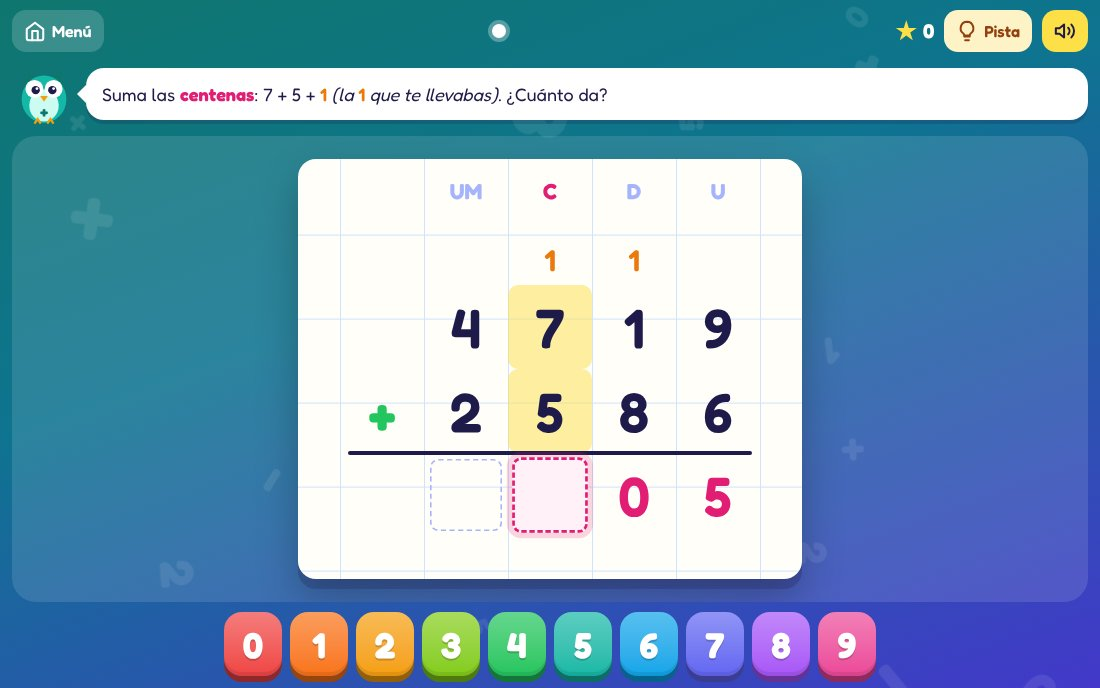
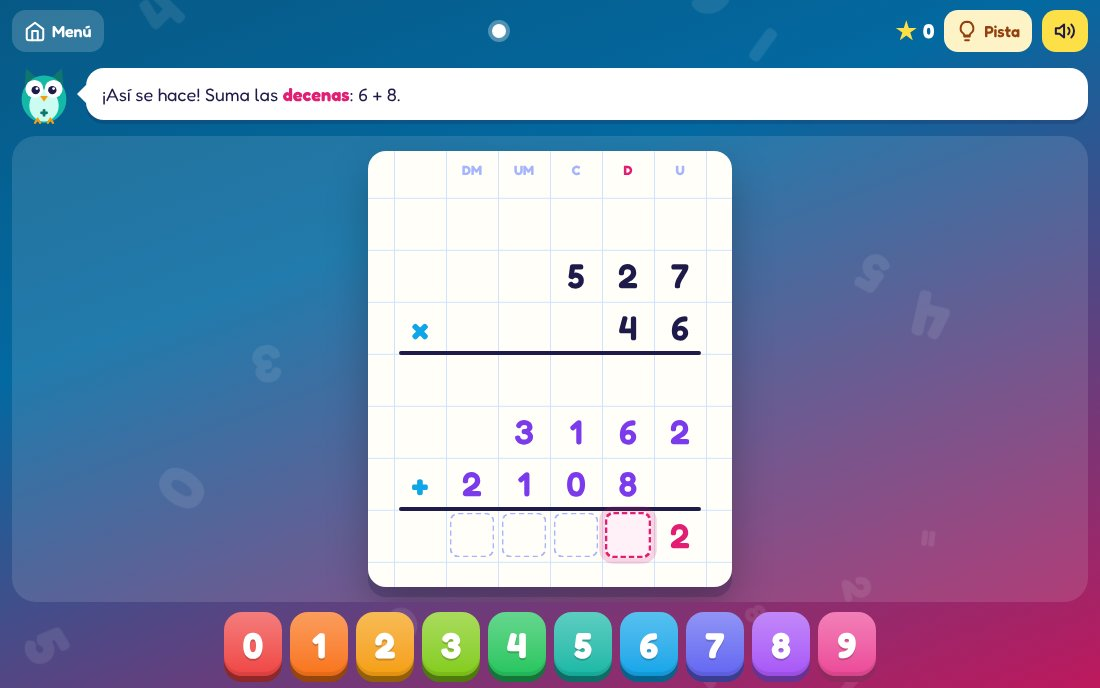
Cuentas Mágicas: multiplicaciones y cifras alineadas con la cuadrícula (#44)
* Cuentas Mágicas: multiplicaciones por 1 y 2 cifras

Claude-Session: https://claude.ai/code/session_01JmubsGKrFVpedsRh6pD2No

* Alinear todas las cifras con la cuadrícula en sumas, restas, multiplicaciones y divisiones

Claude-Session: https://claude.ai/code/session_01JmubsGKrFVpedsRh6pD2No

---------

diff --git a/matematicas/operaciones.html b/matematicas/operaciones.html
@@ -4,11 +4,11 @@
 <meta charset="UTF-8">
 <meta name="viewport" content="width=device-width, initial-scale=1.0">
 <title>Cuentas Mágicas</title>
-<meta name="description" content="Sumas y restas con y sin llevadas, paso a paso, arrastrando los números a su sitio.">
+<meta name="description" content="Sumas, restas y multiplicaciones con y sin llevadas, paso a paso, arrastrando los números a su sitio.">
 <meta property="og:type" content="website">
 <meta property="og:site_name" content="Juegos educativos">
 <meta property="og:title" content="Cuentas Mágicas">
-<meta property="og:description" content="Sumas y restas con y sin llevadas, paso a paso, arrastrando los números a su sitio.">
+<meta property="og:description" content="Sumas, restas y multiplicaciones con y sin llevadas, paso a paso, arrastrando los números a su sitio.">
 <meta property="og:url" content="https://maestroseb.github.io/juegos-educativos/matematicas/operaciones.html">
 <meta property="og:image" content="https://maestroseb.github.io/juegos-educativos/img/capturas/operaciones.jpg">
 <meta property="og:image:width" content="1100">
@@ -113,11 +113,13 @@
   }
   .cell { position: absolute; width: var(--s); height: var(--s); display: grid; place-items: center; font-weight: 600; border-radius: 10px; transition: background .2s; }
   .cell.sm { width: calc(var(--s) * .52); height: calc(var(--s) * .52); font-size: calc(var(--s) * .36); border-radius: 8px; }
+  .cell.sm.corner { width: calc(var(--s) * .4); height: calc(var(--s) * .4); font-size: calc(var(--s) * .3); }
   .cell.given { color: var(--ink); }
   .cell.hl { background: rgba(253, 224, 71, .5); }
   .cell.k-d { color: var(--res); }
   .cell.k-c { color: var(--carry); }
   .cell.mark { color: var(--mark); }
+  .cell.pp { color: #7c3aed; }
   .cell.pending { border: 2px dashed #a5b4fc; transform: scale(.86); }
   .cell.active { border: 3px dashed var(--res); background: #fff1f7; animation: glow 1.2s ease-in-out infinite; transform: scale(.9); }
   .cell.sm.active { border-width: 2px; border-color: var(--carry); background: #fff7ed; transform: none; }
@@ -291,6 +293,15 @@ const genSub = (la, lb, borrow, zeros) => () => {
   }
 };
 
+const mulCarries = (a, b) => String(b).split('').some(d => String(a).split('').some(x => x * d >= 10));
+const genMul = (la, lb, carry) => () => {
+  for (;;) {
+    const a = num(la), b = num(lb);
+    if (String(b).includes('0') || String(b).includes('1') && lb === 1) continue;
+    if (mulCarries(a, b) === carry) return [a, b];
+  }
+};
+
 const OPS = {
   suma: {
     sign: '+', name: 'Sumas', c: '#22c55e', grad: 'linear-gradient(160deg, #0f766e 0%, #0e7490 40%, #4338ca 100%)',
@@ -312,6 +323,17 @@ const OPS = {
       { name: 'Con ceros', desc: 'Ceros en el minuendo', ex: '3005 − 1278', gen: () => genSub(4, rnd(3, 4), true, true)() },
     ],
   },
+  mult: {
+    sign: '×', name: 'Multiplicaciones', c: '#0ea5e9', grad: 'linear-gradient(160deg, #075985 0%, #0369a1 35%, #be185d 100%)',
+    levels: [
+      { name: 'Sin llevar', desc: '2 cifras × 1 cifra, sin llevadas', ex: '23 × 3', gen: genMul(2, 1, false) },
+      { name: 'Me llevo una', desc: '2 cifras × 1 cifra, con llevadas', ex: '47 × 6', gen: genMul(2, 1, true) },
+      { name: 'Centenas', desc: '3 cifras × 1 cifra', ex: '358 × 7', gen: genMul(3, 1, true) },
+      { name: 'Millares', desc: '4 cifras × 1 cifra', ex: '4729 × 8', gen: genMul(4, 1, true) },
+      { name: 'Por 2 cifras', desc: '2 cifras × 2 cifras', ex: '64 × 37', gen: genMul(2, 2, true) },
+      { name: 'Gran reto', desc: '3 cifras × 2 cifras', ex: '527 × 46', gen: genMul(3, 2, true) },
+    ],
+  },
 };
 
 const game = { op: 'suma', level: null, pi: 0, stars: 0, custom: null };
@@ -322,7 +344,7 @@ let prob = null;
 function buildSuma(nums) {
   const total = nums.reduce((a, b) => a + b), k = nums.length;
   const nc = len(total), ml = Math.max(...nums.map(len));
-  const rows = [.6, ...nums.map(() => 1), 1];
+  const rows = [1, ...nums.map(() => 1), 1];
   const resRow = k + 1;
   const statics = [], tasks = [];
   nums.forEach((n, j) => String(n).split('').reverse().forEach((v, c) => statics.push({ col: c, row: 1 + j, v })));
@@ -409,6 +431,97 @@ function buildResta([a, b]) {
   };
 }
 
+function buildMult([a, b]) {
+  const res = a * b, nc = len(res), la = len(a), nb = len(b);
+  const pr = nb > 1 ? 4 : 3;
+  const rows = [1, 1, 1, ...(nb > 1 ? [1] : []), ...Array(nb).fill(1), ...(nb > 1 ? [1] : [])];
+  const statics = [], tasks = [];
+  String(a).split('').reverse().forEach((v, c) => statics.push({ col: c, row: 1, v }));
+  String(b).split('').reverse().forEach((v, c) => statics.push({ col: c, row: 2, v }));
+  const parts = [];
+  for (let j = 0; j < nb; j++) {
+    const dj = dig(b, j), row = pr + j, start = tasks.length;
+    parts.push(a * dj);
+    let carry = 0;
+    for (let c = 0; c < la; c++) {
+      const ad = dig(a, c), p = ad * dj + carry, u = p % 10, t = Math.floor(p / 10);
+      const hl = [[c, 1], [j, 2]];
+      if (carry) hl.push([c, 0]);
+      const expr = `${dj} × ${ad}` + (carry ? ` + <em>${carry}</em>` : '');
+      const first = c === 0 && j > 0
+        ? `Ahora multiplicamos por el <b>${dj}</b> de las ${COLN[j]}. Empieza debajo de las ${COLN[j]}, dejando ${j > 1 ? 'huecos' : 'un hueco'} a la derecha. ` : '';
+      tasks.push({
+        kind: 'd', pp: nb > 1, col: c + j, row, value: u, hl, colHead: c + j, group: 'pp' + j,
+        instr: `${first}Multiplica: <b>${dj} × ${ad}</b>${carry ? `, y súmale la <em>${carry}</em> que te llevabas` : ''}.`,
+        wrong: (v, n) => {
+          if (t && v === t) return `${expr} = ${p}. ¡Ese es el que te llevas! Primero escribe las unidades: el <b>${u}</b>.`;
+          if (n >= 2) return `${dj} × ${ad} = ${dj * ad}${carry ? ` y + ${carry} = ${p}` : ''}. ${t ? `Escribe el <b>${u}</b>.` : ''}`;
+          return `Esa no es. Revisa ${expr}. ¡Repasa la tabla del ${dj}!`;
+        },
+        hint: `${dj} × ${ad} = ${dj * ad}${carry ? `, + ${carry} = <b>${p}</b>` : ''}.${t ? ` Escribe el <b>${u}</b> y te llevas <em>${t}</em>.` : ''}`,
+      });
+      if (t) {
+        if (c < la - 1) tasks.push({
+          kind: 'c', col: c + 1, row: 0, value: t, hl, colHead: c + j, group: 'c' + j + c,
+          instr: `${expr} = ${p}: pones el ${u} y <b>te llevas ${t}</b>. Ponlo encima de la siguiente cifra.`,
+          wrong: () => `${expr} = ${p}. Ya has puesto el ${u}; ¿cuántas decenas te sobran? ¡Esas te las llevas!`,
+          hint: `De ${p} te llevas <b>${t}</b>.`,
+        });
+        else tasks.push({
+          kind: 'd', pp: nb > 1, col: c + 1 + j, row, value: t, hl, colHead: c + 1 + j, group: 'pp' + j,
+          instr: `${expr} = ${p}. Es la última cifra, así que escribe el <b>${t}</b> delante.`,
+          wrong: () => `${expr} = ${p}. Ya tienes el ${u}; delante va el <b>${t}</b>.`,
+          hint: `Escribe el <b>${t}</b>.`,
+        });
+      }
+      carry = t;
+    }
+    // Las llevadas de cada fila se borran al pasar a la siguiente cifra del multiplicador
+    if (nb > 1) for (let i = start; i < tasks.length; i++) if (tasks[i].kind === 'c') tasks[i].until = tasks.length - 1;
+  }
+  if (nb > 1) {
+    const resRow = pr + nb;
+    let carry = 0;
+    for (let c = 0; c < nc; c++) {
+      const js = parts.map((_, j) => j).filter(j => c >= j && c - j < len(parts[j]));
+      const ds = js.map(j => dig(parts[j], c - j));
+      const s = ds.reduce((x, y) => x + y, carry);
+      if (!js.length && !carry) break;
+      const u = s % 10, t = Math.floor(s / 10);
+      const hl = js.map(j => [c, pr + j]);
+      if (carry) hl.push([c, 3]);
+      const expr = ds.join(' + ') + (carry ? ` + <em>${carry}</em>` : '');
+      const head = c === 0 ? '¡Ahora suma los resultados! ' : '';
+      const last = c === nc - 1 && t === 0;
+      tasks.push({
+        kind: 'd', col: c, row: resRow, value: u, hl, colHead: c, group: 'res',
+        instr: head + (ds.length === 1 && !carry
+          ? `En las <b>${COLN[c]}</b> solo hay un <b>${ds[0]}</b>: bájalo.`
+          : `Suma las <b>${COLN[c]}</b>: ${expr}.`),
+        wrong: (v, n) => {
+          if (t && v === t) return `${expr} = ${s}. ¡Ese es el que te llevas! Primero escribe el <b>${u}</b>.`;
+          return n >= 2 ? `${expr} = <b>${s}</b>.${t ? ` Escribe solo el <b>${u}</b>.` : ''}` : `Mmm, esa no es. Vuelve a sumar: ${expr}.`;
+        },
+        hint: `${expr} = <b>${s}</b>.${t ? ` Escribe el <b>${u}</b> y te llevas <em>${t}</em>.` : ''}`,
+      });
+      if (t) tasks.push({
+        kind: 'c', col: c + 1, row: 3, value: t, hl, colHead: c, group: 's' + c,
+        instr: `${expr} = ${s}: pones el ${u} y <b>te llevas ${t}</b>. Ponlo encima de las ${COLN[c + 1]}.`,
+        wrong: () => `${expr} = ${s}. Ya has puesto el ${u}; ¿cuántas te llevas?`,
+        hint: `De ${s} te llevas <b>${t}</b>.`,
+      });
+      carry = t;
+      if (last) break;
+    }
+  }
+  return {
+    op: 'mult', nums: [a, b], result: res, nc, rows, statics, tasks,
+    signs: nb > 1 ? [[2, '×'], [pr + nb - 1, '+']] : [[2, '×']],
+    lines: nb > 1 ? [2, pr + nb - 1] : [2],
+    eq: `${a} × ${b} = <span class="cq">${res}</span>`,
+  };
+}
+
 /* ---------- Sonido ---------- */
 let AC = null, soundOn = true;
 function tone(f, dur, type = 'sine', vol = .15, delay = 0) {
@@ -449,7 +562,6 @@ function renderMenu() {
   document.documentElement.style.setProperty('--op', op.c);
   $('#ops').innerHTML = Object.entries(OPS).map(([id, o]) =>
     `<button class="op${id === game.op ? ' on' : ''}" data-op="${id}" style="--c:${o.c}"><span class="sym">${o.sign}</span><b>${o.name}</b><small>Con y sin llevadas</small></button>`).join('') +
-    `<div class="op soon" style="--c:#0ea5e9"><span class="sym">×</span><b>Multiplicaciones</b><small>¡Muy pronto!</small></div>` +
     `<a class="op" href="division.html" style="--c:#8b5cf6"><span class="sym">÷</span><b>Divisiones</b><small>Divide y Vencerás</small></a>`;
   const box = $('#levels');
   box.innerHTML = '';
@@ -471,6 +583,7 @@ $('#custom').onsubmit = e => {
   e.preventDefault();
   const a = parseInt($('#cA').value, 10), b = parseInt($('#cB').value, 10), err = $('#cErr');
   if (!(a >= 1 && b >= 1 && a <= 9999999 && b <= 9999999)) return err.textContent = 'Escribe dos números entre 1 y 9999999.';
+  if (game.op === 'mult' && (a > 99999 || b > 999)) return err.textContent = 'Para multiplicar: arriba hasta 99999 y abajo hasta 999.';
   if (game.op === 'resta' && b >= a) return err.textContent = 'En la resta, el número de arriba tiene que ser mayor.';
   err.textContent = '';
   game.custom = [a, b]; game.pi = 0; game.stars = 0;
@@ -488,7 +601,7 @@ function startRound() {
 }
 
 function newProblem(nums) {
-  prob = game.op === 'suma' ? buildSuma(nums) : buildResta(nums);
+  prob = { suma: buildSuma, resta: buildResta, mult: buildMult }[game.op](nums);
   Object.assign(prob, { t: 0, errors: 0, taskErr: 0, lastKey: null });
   prob.tasks.forEach((tk, i) => tk.key = 'k' + i);
   prob.tasks.push({ kind: 'done' });
@@ -548,33 +661,36 @@ function render() {
   };
   const hl = new Set((T.hl || []).map(([c, r]) => c + ',' + r));
   // Cabecera de columnas (U, D, C…)
-  for (let c = 0; c < p.nc; c++) el('colhead' + (T.colHead === c || (T.hl && T.hl[0][0] === c) ? ' on' : ''), X(c), pad * .45, COLS[c]);
-  // Posición de una casilla pequeña (llevada)
+  for (let c = 0; c < p.nc; c++) el('colhead' + ((T.colHead ?? (T.hl && T.hl[0][0])) === c ? ' on' : ''), X(c), pad * .45, COLS[c]);
+  // Las llevadas van dentro de su cuadro: abajo en su fila, o en la esquina del número en la resta
   const small = tk => tk.corner
-    ? [X(tk.col) - S * .2, Y(tk.row) - S * .16]
-    : [X(tk.col) + S * .24, Y(tk.row) + (p.rows[tk.row] * S - S * .52) / 2];
+    ? [X(tk.col) + S * .03, Y(tk.row) + S * .03]
+    : [X(tk.col) + S * .24, Y(tk.row) + S * .44];
 
   p.statics.forEach(s => {
     if (s.mark) {
       if (p.t <= s.after) return;
-      const e = el('cell sm mark', X(s.col) - S * .2, Y(s.row) - S * .16, s.v);
+      const e = el('cell sm corner mark', X(s.col) + S * .03, Y(s.row) + S * .03, s.v);
       return e;
     }
     el('cell given' + (hl.has(s.col + ',' + s.row) ? ' hl' : ''), X(s.col), Y(s.row), s.v);
   });
-  el('sign', X(p.nc), Y(p.signRow), OPS[p.op].sign);
-  const r = el('rule', X(p.nc) + S * .1, Y(p.lineRow) + S - 2);
-  r.style.width = (p.nc + .8) * S + 'px';
+  (p.signs || [[p.signRow, OPS[p.op].sign]]).forEach(([row, sg]) => el('sign', X(p.nc), Y(row), sg));
+  (p.lines || [p.lineRow]).forEach(row => {
+    const r = el('rule', X(p.nc) + S * .1, Y(row) + S - 2);
+    r.style.width = (p.nc + .8) * S + 'px';
+  });
 
   p.tasks.forEach((tk, i) => {
     if (!tk.key) return;
     const st = i < p.t ? 'filled' : i === p.t ? 'active' : (tk.kind === 'd' && tk.group === T.group ? 'pending' : null);
-    if (!st) return;
+    if (!st || (st === 'filled' && tk.until != null && p.t > tk.until)) return;
     let cls = `cell k-${tk.kind} ${st}`;
-    if (tk.kind === 'c') cls += ' sm';
+    if (tk.kind === 'c') cls += tk.corner ? ' sm corner' : ' sm';
     if (st === 'active') cls += ' drop';
     if (tk.key === p.lastKey) cls += ' pop';
-    if (done && tk.kind === 'd') cls += ' final';
+    if (tk.pp) cls += ' pp';
+    if (done && tk.kind === 'd' && !tk.pp) cls += ' final';
     const [x, y] = tk.kind === 'c' ? small(tk) : [X(tk.col), Y(tk.row)];
     el(cls, x, y, st === 'filled' ? tk.value : null);
   });

diff --git a/matematicas/division.html b/matematicas/division.html
@@ -495,7 +495,7 @@ function render() {
   const n = p.digs.length, m = String(p.d).length, ql = p.steps.length;
   const rows = p.restas ? 1 + 2 * ql : 1 + ql;
   const boxW = Math.max(m, ql) + .5;
-  const uw = n + 1 + .4 + boxW + 1, uh = rows + 1.3;
+  const uw = n + 1 + boxW + 1, uh = rows + 1.3;
   let S = Math.floor(Math.min((wrap.clientWidth - 12) / uw, (wrap.clientHeight - 24) / uh, 72));
   S = Math.max(S, 30);
   const pad = S * .5;
@@ -505,7 +505,7 @@ function render() {
   b.style.height = uh * S + 'px';
   b.style.backgroundPosition = `${pad}px ${pad}px`;
   const X = c => pad + (c + 1) * S, Y = r => pad + r * S;
-  const boxX = X(n) + S * .4;
+  const boxX = X(n);
   const el = (cls, x, y, txt, attrs = {}) => {
     const e = document.createElement('div');
     e.className = cls; e.style.left = x + 'px'; e.style.top = y + 'px';
@@ -543,13 +543,13 @@ function render() {
   el('tag', X(0), Y(0) - pad * .85, 'Dividendo').style.whiteSpace = 'nowrap';
 
   // Divisor y caja
-  String(p.d).split('').forEach((v, j) => el('cell given dv', boxX + S * .25 + j * S, Y(0), v));
-  el('tag', boxX + S * .25, Y(0) - pad * .85, 'Divisor').style.whiteSpace = 'nowrap';
+  String(p.d).split('').forEach((v, j) => el('cell given dv', boxX + j * S, Y(0), v));
+  el('tag', boxX + S * .1, Y(0) - pad * .85, 'Divisor').style.whiteSpace = 'nowrap';
   const vl = el('vline', boxX - 2, Y(0) + S * .08);
   vl.style.width = '4px'; vl.style.height = S * .92 + 'px';
   const hl2 = el('hline', boxX - 2, Y(1) - 2);
   hl2.style.height = '4px'; hl2.style.width = boxW * S + 'px';
-  if (p.t > 0) el('tag', boxX + S * .25, Y(2) + S * .25, 'Cociente').style.whiteSpace = 'nowrap';
+  if (p.t > 0) el('tag', boxX + S * .1, Y(2) + S * .05, 'Cociente').style.whiteSpace = 'nowrap';
 
   // Signo menos y raya de cada resta
   if (p.restas) p.steps.forEach((s, k) => {
@@ -568,8 +568,8 @@ function render() {
     const st = i < p.t ? 'filled' : i === p.t ? 'active' : (tk.type === T.type && tk.k === T.k ? 'pending' : null);
     if (!st) return;
     const isQ = tk.type === 'q';
-    const x = isQ ? boxX + S * .25 + tk.k * S : X(tk.col);
-    const y = isQ ? Y(1) + S * .1 : Y(tk.row);
+    const x = isQ ? boxX + tk.k * S : X(tk.col);
+    const y = isQ ? Y(1) : Y(tk.row);
     let cls = `cell t-${tk.type} ${st}`;
     if (st === 'active') cls += ' drop';
     if (!isQ && hl.has(tk.row + ',' + tk.col)) cls += ' hl';

diff --git a/index.html b/index.html
@@ -125,7 +125,7 @@ const LEVELS = [
 ];
 const GAMES = [
   { level: 1, subj: 'mate', icon: 'clock', title: 'Reloj Maestro', desc: 'Aprende a leer la hora en relojes de agujas y digitales.', course: '1º – 2º', href: 'matematicas/reloj.html', img: 'img/capturas/reloj.jpg' },
-  { level: 1, subj: 'mate', icon: 'plusminus', title: 'Cuentas Mágicas', desc: 'Sumas y restas con y sin llevadas, paso a paso, arrastrando los números.', course: '1º – 4º', href: 'matematicas/operaciones.html', img: 'img/capturas/operaciones.jpg', extra: 'Táctil' },
+  { level: 1, subj: 'mate', icon: 'plusminus', title: 'Cuentas Mágicas', desc: 'Sumas, restas y multiplicaciones con y sin llevadas, paso a paso, arrastrando los números.', course: '1º – 4º', href: 'matematicas/operaciones.html', img: 'img/capturas/operaciones.jpg', extra: 'Táctil' },
   { level: 1, subj: 'sociales', icon: 'mountain', title: 'Paisajes naturales vs humanizados', desc: 'Observa fotos reales y decide si el ser humano ha cambiado el paisaje.', course: '1º – 2º', href: 'naturalVShumanizado/index.html', img: 'img/capturas/paisajes.jpg' },
 
   { level: 2, subj: 'mate', icon: 'apple', title: 'Fruta Ninja', desc: 'Corta la fruta con el resultado correcto de la tabla de multiplicar.', course: '2º – 4º', href: 'matematicas/fruta-ninja.html', img: 'img/capturas/fruta-ninja.jpg', extra: 'Táctil' },

diff --git a/README.md b/README.md
@@ -49,9 +49,10 @@ División tradicional paso a paso: el alumno coge las cifras del dividendo, arra
 
 ## Cuentas Mágicas (`matematicas/operaciones.html`)
 
-Sumas y restas en columna, paso a paso, con el mismo estilo que *Divide y Vencerás*. El alumno arrastra cada cifra del resultado y cada llevada a su sitio, empezando por las unidades.
+Sumas, restas y multiplicaciones en columna, paso a paso, con el mismo estilo que *Divide y Vencerás*. El alumno arrastra cada cifra del resultado y cada llevada a su sitio, empezando por las unidades.
 
 - Sumas: sin llevar, llevando, 3 y 4 cifras y tres sumandos
 - Restas: sin llevar, llevando (método tradicional: «me llevo una» junto al sustraendo), 3 y 4 cifras y con ceros en el minuendo
 - Cuentas propias, pistas y explicación de cada error, columnas U/D/C/UM y prueba de la resta
-- Enlaza con *Divide y Vencerás*; la multiplicación llegará en el mismo motor
+- Multiplicaciones: por 1 cifra (sin y con llevadas, hasta 4 cifras) y por 2 cifras, con productos parciales desplazados y suma final
+- Enlaza con *Divide y Vencerás*
